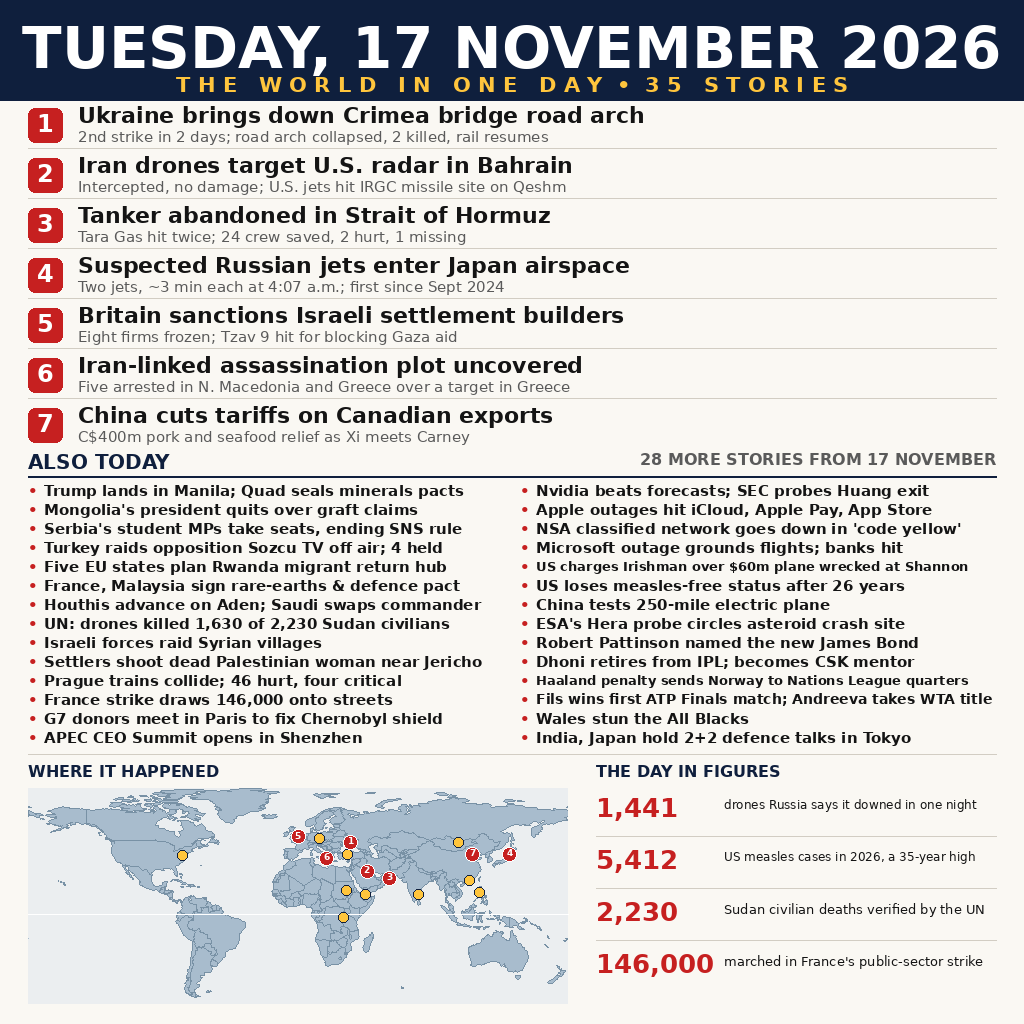
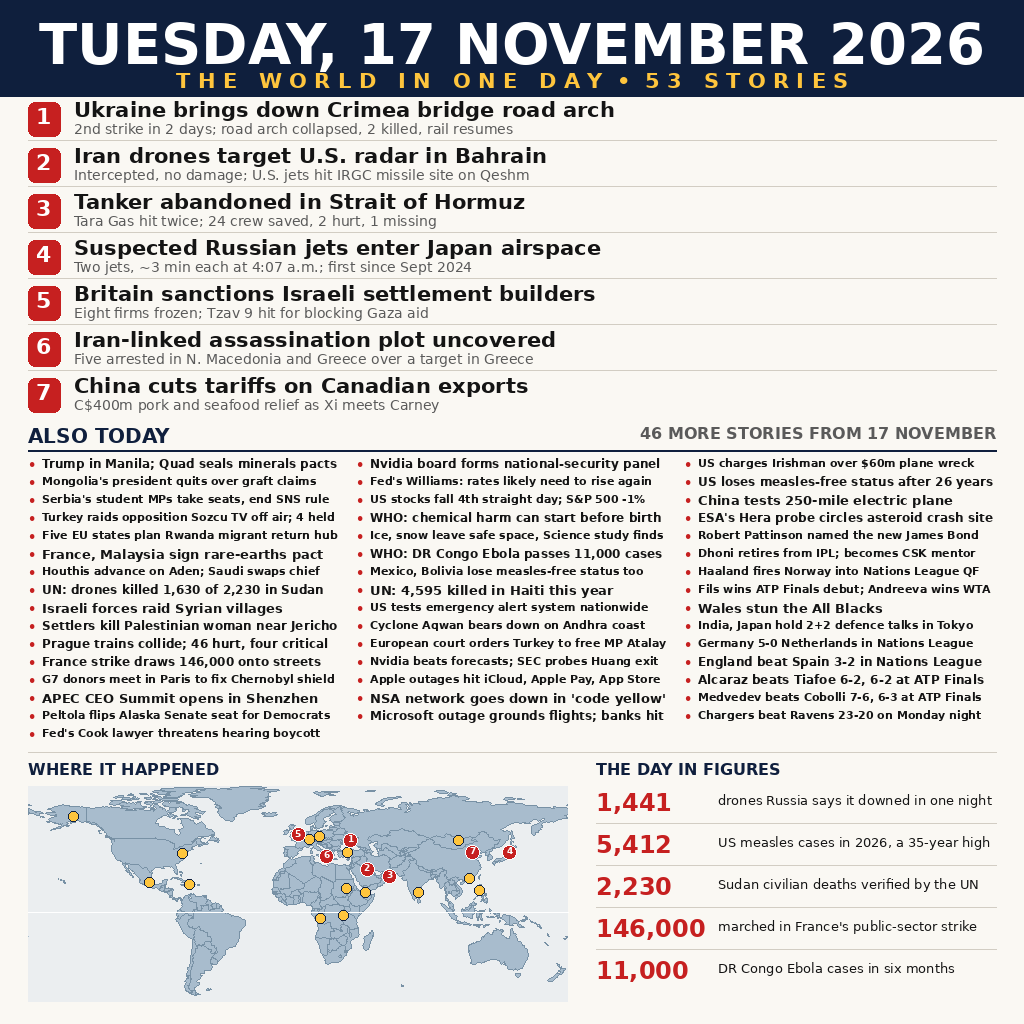
v4: 53 stories, 3-column grid, 5th figure, 5 new map pins

Changed region(s): [[0.0, 0.0, 1.0, 0.9688], [0.4062, 0.75, 0.4375, 0.7812]]

diff --git a/main.ts b/main.ts
@@ -1,6 +1,8 @@
 // news-image-20261117: copy the front-page image for 17 November 2026 to the
 // grader's output directory. Node 22, standard library only. The image is
-// entry.png beside this file; the output is always the same bytes.
+// entry.png beside this file (v4: 53 verified stories, 3-column grid, world
+// map, day-in-figures panel; built by build_frontpage_v4.py); the output is
+// always the same bytes.
 //
 //   mkdir -p out && MAKEFUN_OUTPUT_DIR=out node main.ts
 

diff --git a/README.md b/README.md
@@ -4,7 +4,7 @@
 [![rank](https://make.fun/badge/news-image-20261117/RockyGoon/news-image-20261117/rank.svg)](https://make.fun/bounty/news-image-20261117/leaderboard?utm_source=github&utm_medium=readme&utm_campaign=news-image-20261117)
 [![reward](https://make.fun/badge/news-image-20261117/RockyGoon/news-image-20261117/reward.svg)](https://make.fun/bounty/news-image-20261117?utm_source=github&utm_medium=readme&utm_campaign=news-image-20261117)
 
-One image summing up the world news of Tuesday 17 November 2026 — six stories, one day: Ukraine strikes the Crimea bridge for a second day, Iran drones target a U.S. radar in Bahrain, a tanker abandoned in the Strait of Hormuz, suspected Russian jets enter Japan airspace, Britain sanctions Israeli settlement builders, and China cuts tariffs on Canadian exports.
+One image summing up the world news of Tuesday 17 November 2026 — 53 verified stories, one day: seven featured stories (Ukraine brings down the Crimea bridge road arch, Iran drones target a U.S. radar in Bahrain — and U.S. jets hit an IRGC missile site on Qeshm in reply, a tanker abandoned in the Strait of Hormuz, suspected Russian jets enter Japan airspace, Britain sanctions Israeli settlement builders, an Iran-linked assassination plot uncovered in North Macedonia and Greece, and China cuts tariffs on Canadian exports), 46 more stories across every region and field, a world map marking where it happened, and a day-in-figures panel (1,441 drones downed, 5,412 US measles cases, 2,230 Sudan civilian deaths, 146,000 marching in France, 11,000 DR Congo Ebola cases).
 
 ## Run it
 
